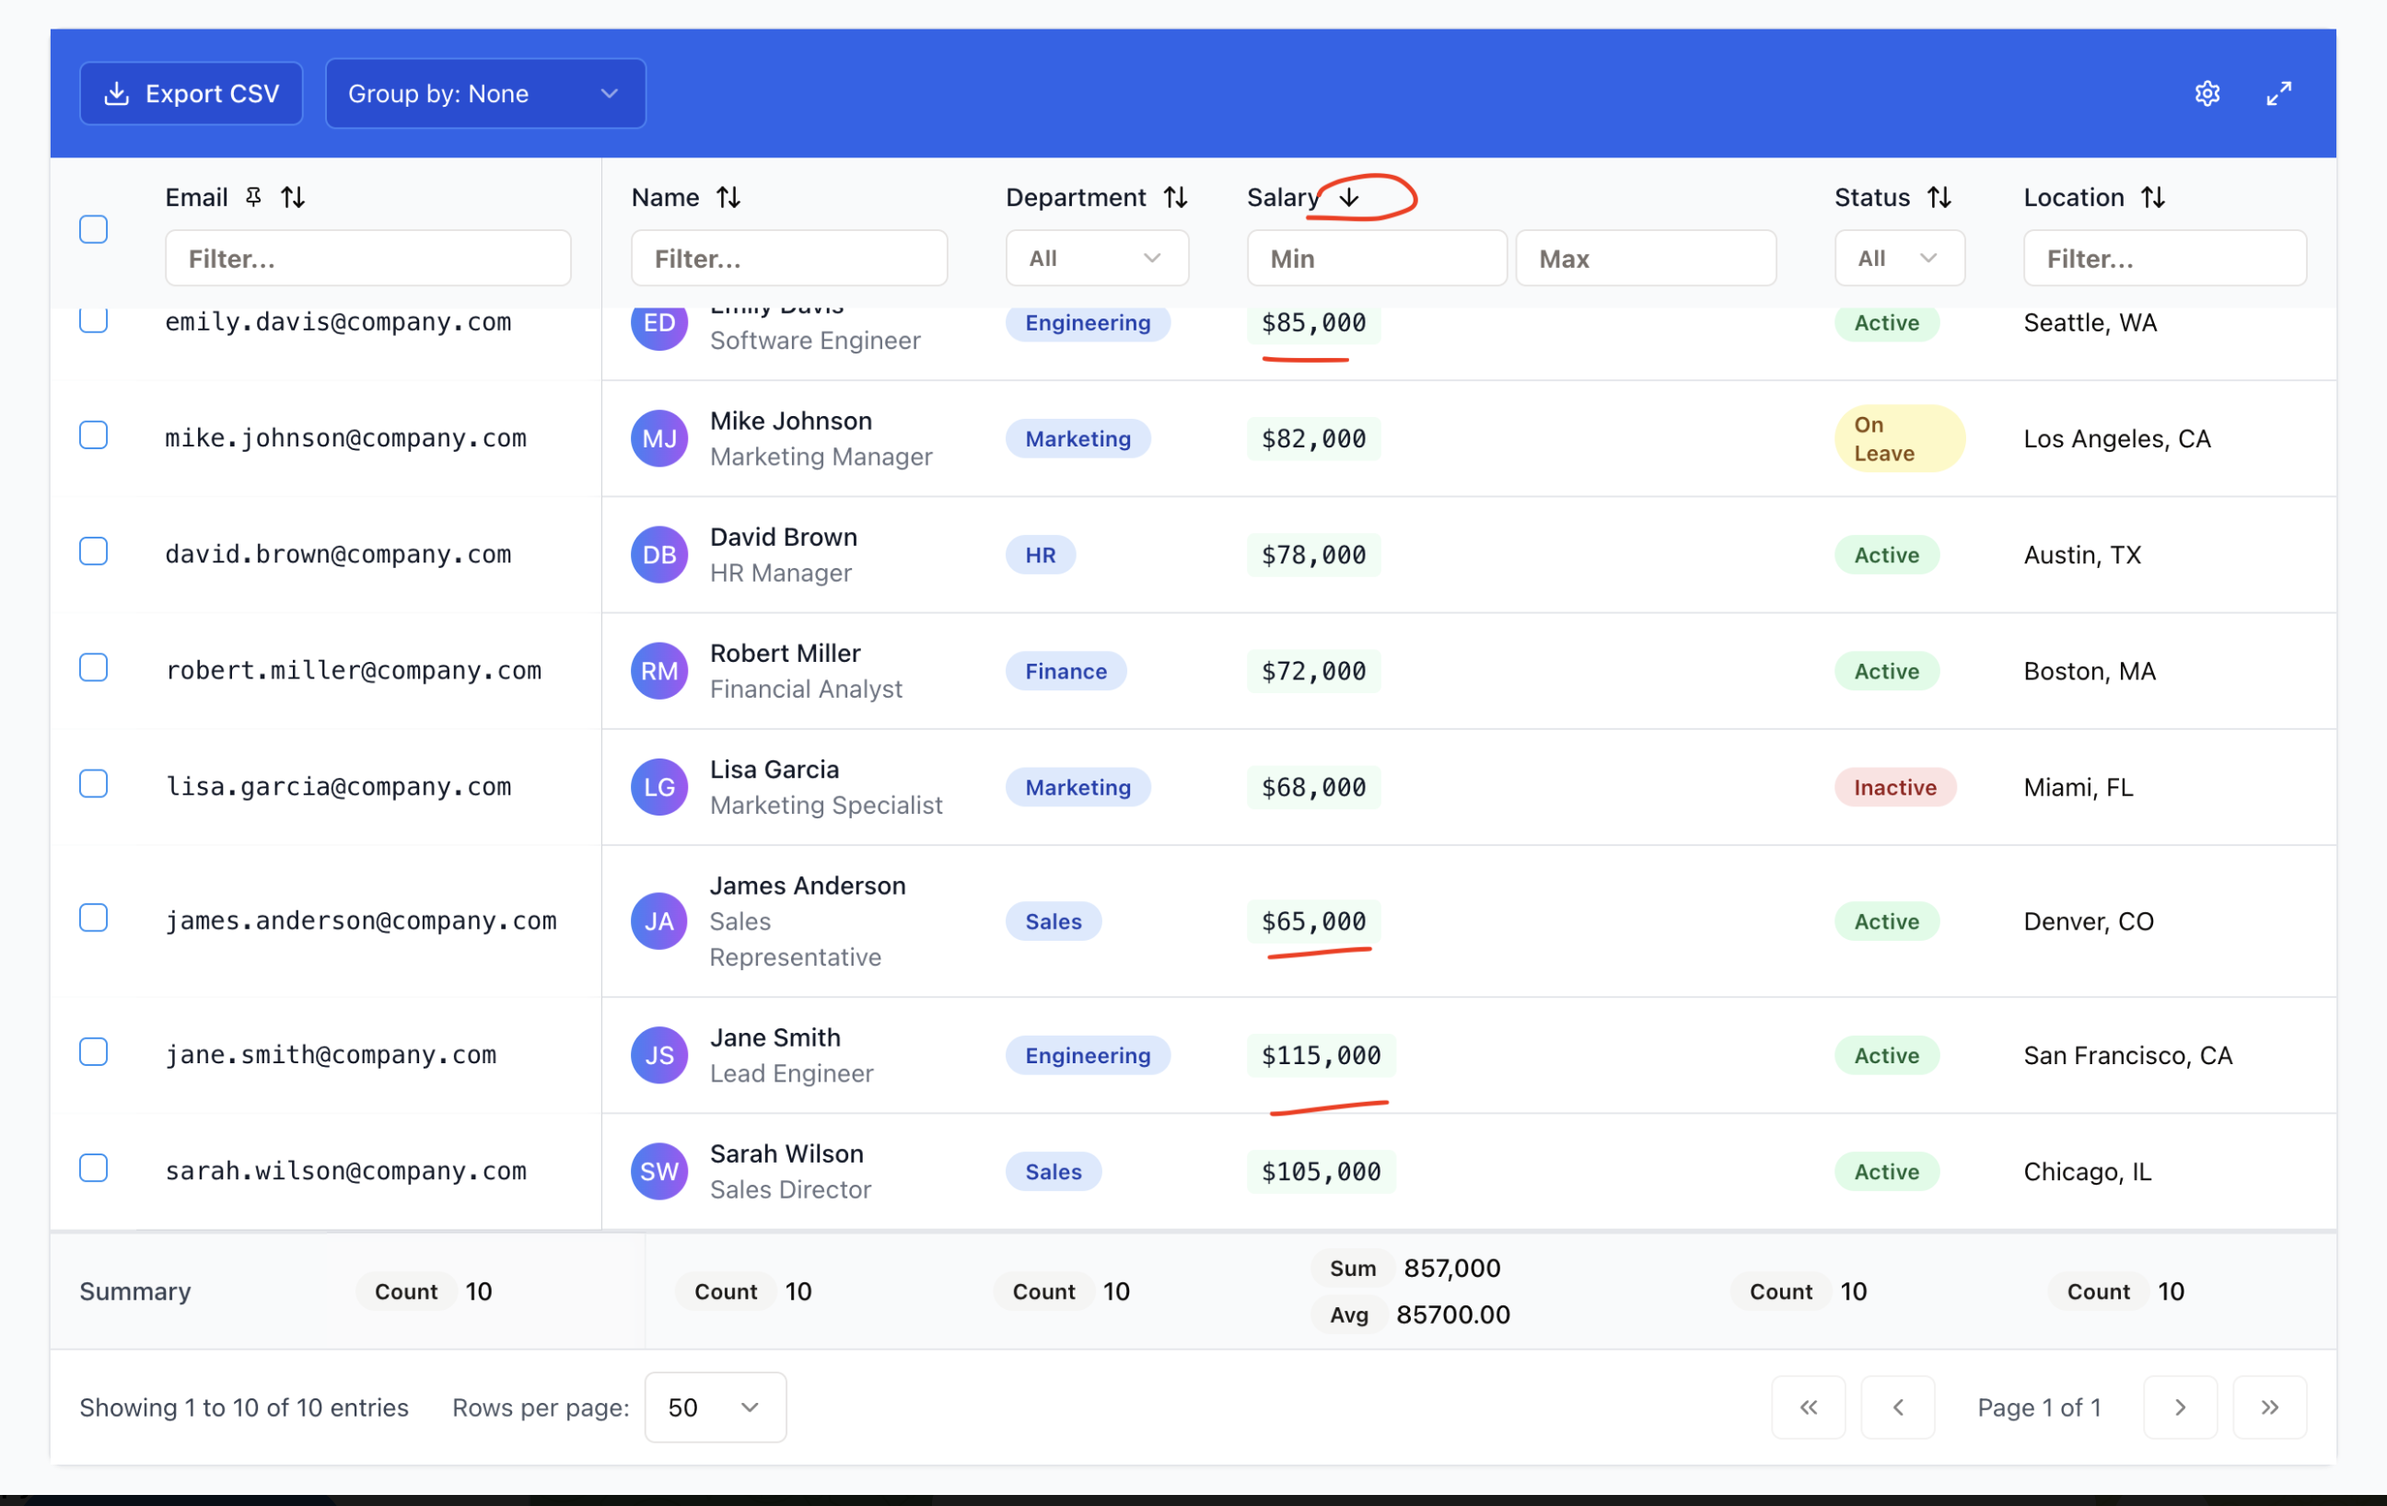
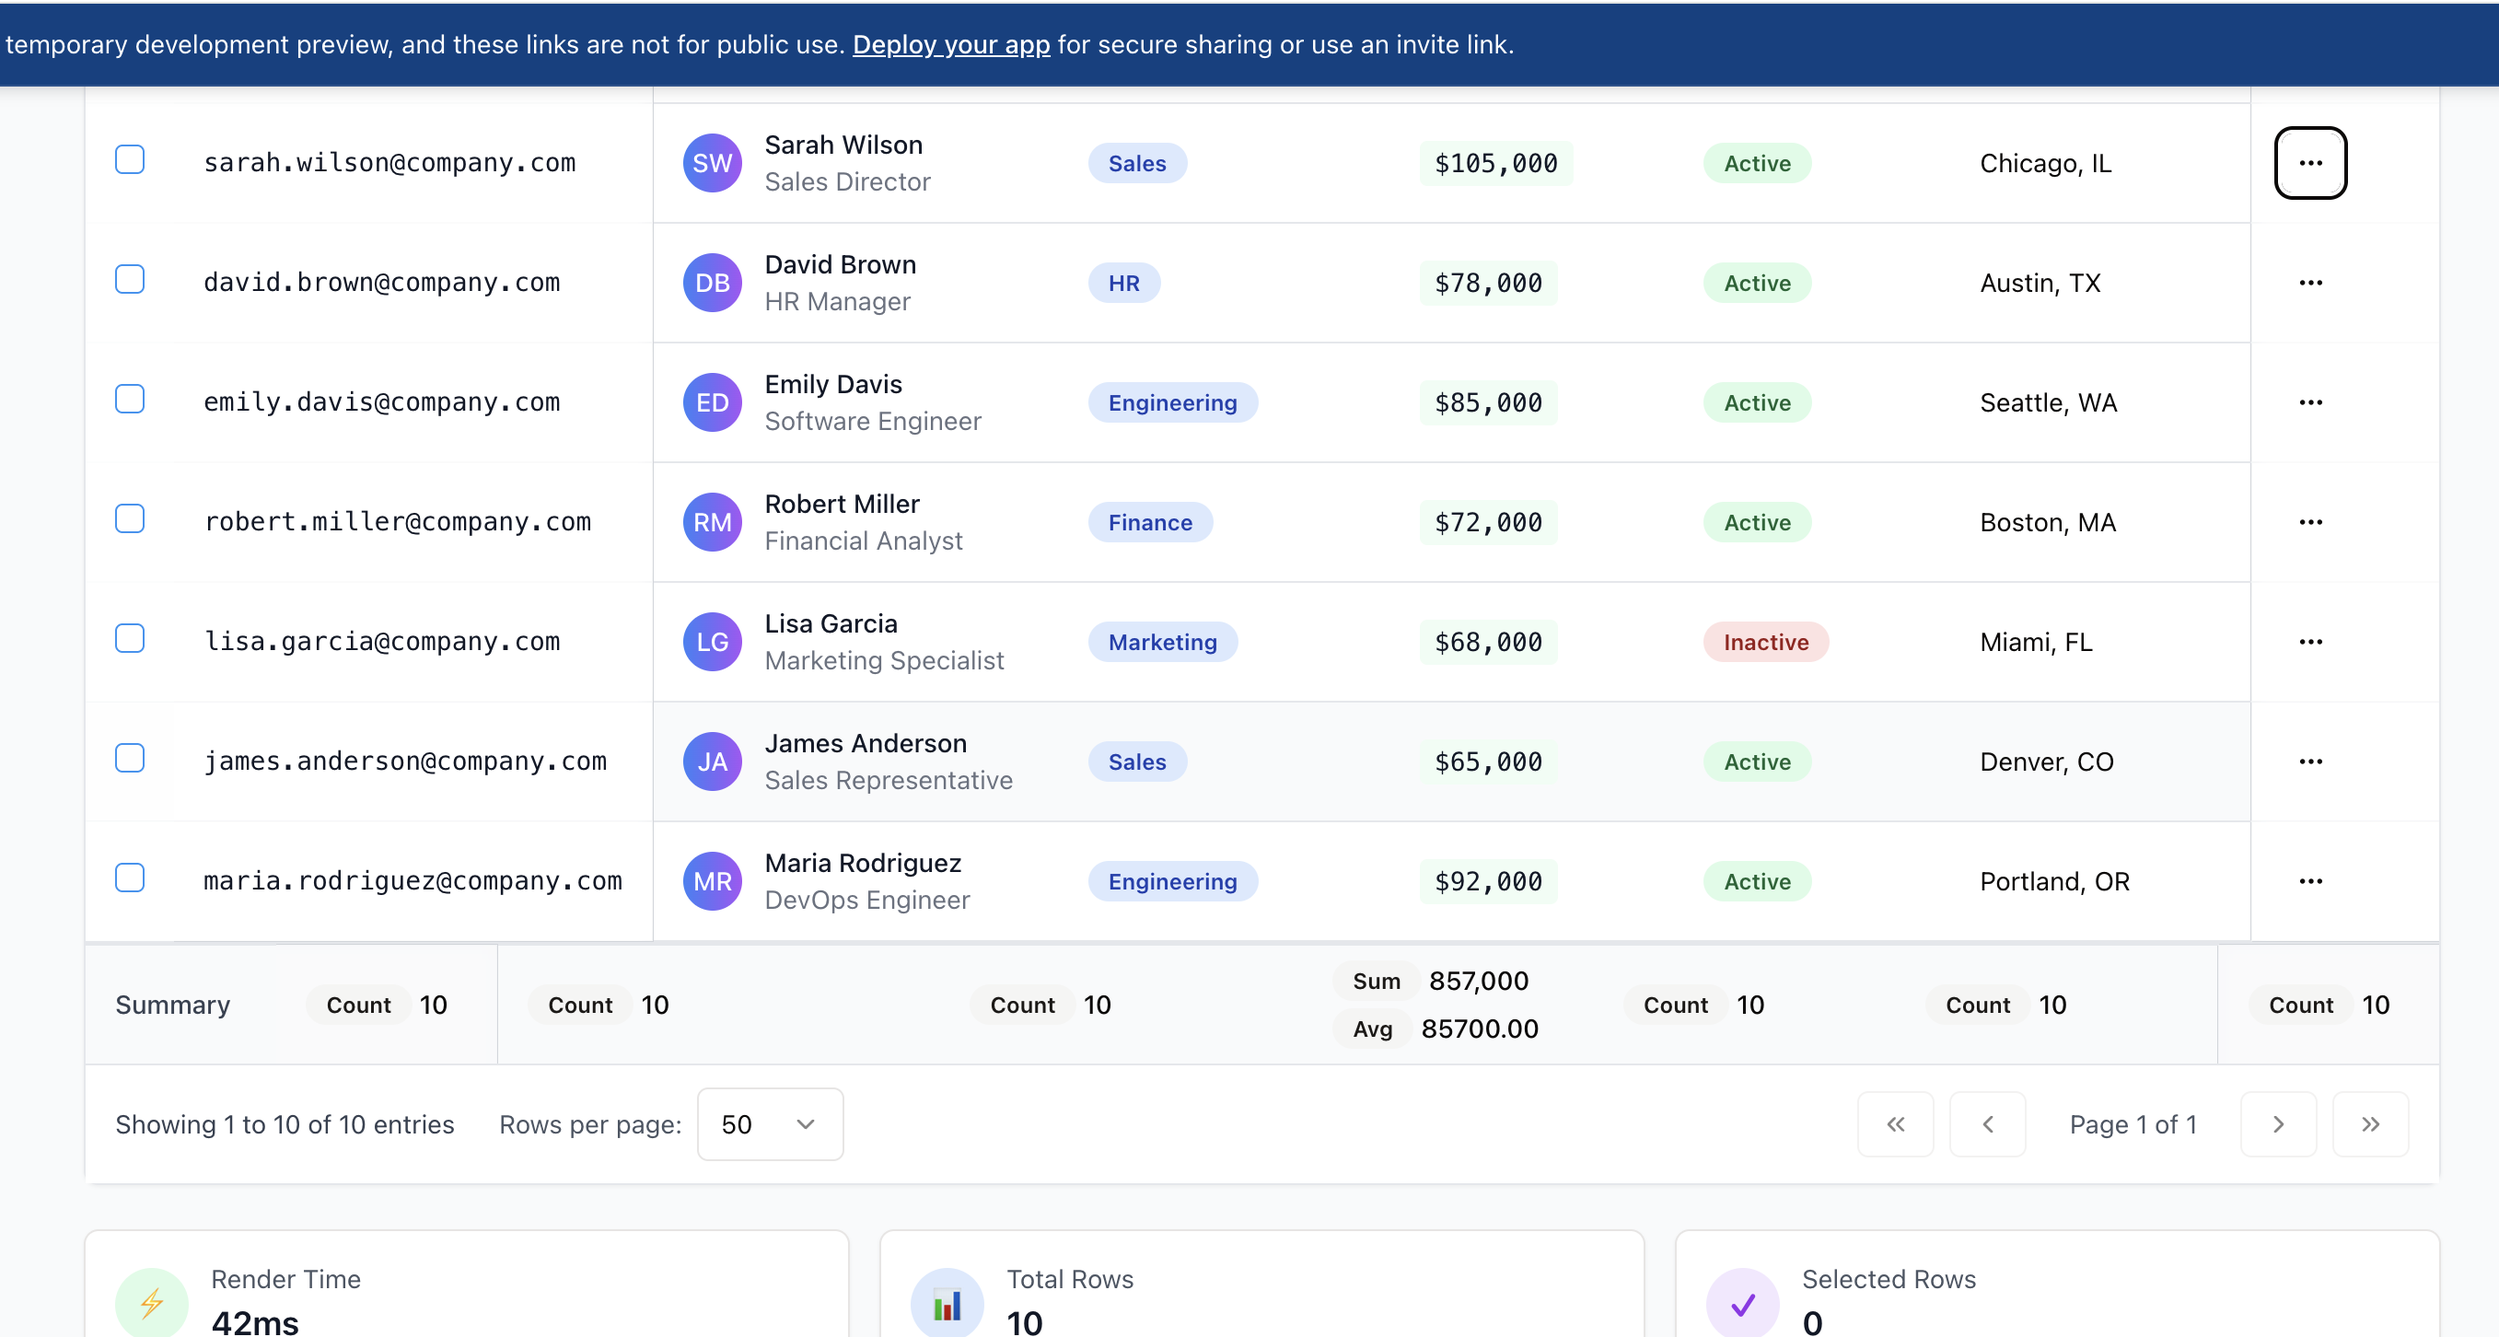
Improve layout and display of grouped data and table summaries
Aligns table footer columns with the grid and updates README screenshot; adjusts DataTableGroupHeader and DataTableStickyFooter components.

Replit-Commit-Author: Agent
Replit-Commit-Session-Id: 0974473c-985e-48a1-a690-1ab60a8a5f88
Replit-Commit-Screenshot-Url: https://storage.googleapis.com/screenshot-production-us-central1/6f595fcc-2213-415a-ae9c-e8cc563c8170/d9ee3f54-642d-4f6b-bfd9-895e3b2f9985.jpg

diff --git a/npm-package/src/components/DataTable/data-table-group-header.tsx b/npm-package/src/components/DataTable/data-table-group-header.tsx
@@ -1,49 +1,81 @@
 import React from 'react';
 import { ChevronDown, ChevronRight } from 'lucide-react';
 import { Button } from '@/components/ui/button';
+import { DataTableColumn } from './types';
 
-interface DataTableGroupHeaderProps {
+interface DataTableGroupHeaderProps<T = any> {
   groupValue: string;
   itemCount: number;
   expanded: boolean;
   summaries?: Map<string, number>;
+  columns: DataTableColumn<T>[];
   onToggle: () => void;
 }
 
-export function DataTableGroupHeader({ 
+export function DataTableGroupHeader<T>({ 
   groupValue, 
   itemCount, 
   expanded, 
   summaries,
+  columns,
   onToggle 
-}: DataTableGroupHeaderProps) {
+}: DataTableGroupHeaderProps<T>) {
+  const visibleColumns = columns.filter(col => !col.hidden);
+  
   return (
-    <td colSpan={100} className="px-4 py-3 bg-gray-100 hover:bg-gray-200 transition-colors">
-      <div className="flex items-center gap-2">
-        <Button
-          variant="ghost"
-          size="sm"
-          className="p-0 h-6 w-6"
-          onClick={onToggle}
-        >
-          {expanded ? (
-            <ChevronDown className="h-4 w-4" />
-          ) : (
-            <ChevronRight className="h-4 w-4" />
-          )}
-        </Button>
-        <span className="font-medium text-gray-900">{groupValue}</span>
-        <span className="text-sm text-gray-500">({itemCount} items)</span>
-        {summaries && summaries.size > 0 && (
-          <div className="flex items-center gap-4 ml-4">
-            {Array.from(summaries.entries()).map(([field, sum]) => (
-              <span key={field} className="text-sm text-blue-600 font-medium">
-                {field}: ${sum.toLocaleString()}
-              </span>
-            ))}
-          </div>
-        )}
-      </div>
-    </td>
+    <>
+      {visibleColumns.map((column, index) => {
+        if (index === 0) {
+          // First column: show the toggle and group info
+          return (
+            <td 
+              key={String(column.field)} 
+              className="px-4 py-3 bg-gray-100 hover:bg-gray-200 transition-colors border-b border-gray-200"
+              style={{
+                minWidth: column.minWidth || '120px',
+              }}
+            >
+              <div className="flex items-center gap-2">
+                <Button
+                  variant="ghost"
+                  size="sm"
+                  onClick={onToggle}
+                  className="h-6 w-6 p-0"
+                >
+                  {expanded ? (
+                    <ChevronDown className="h-4 w-4" />
+                  ) : (
+                    <ChevronRight className="h-4 w-4" />
+                  )}
+                </Button>
+                <span className="font-medium text-gray-900">
+                  {groupValue} ({itemCount} items)
+                </span>
+              </div>
+            </td>
+          );
+        } else {
+          // Other columns: show summary if available
+          const fieldName = String(column.field);
+          const summary = summaries?.get(fieldName);
+          
+          return (
+            <td 
+              key={String(column.field)} 
+              className="px-4 py-3 bg-gray-100 hover:bg-gray-200 transition-colors border-b border-gray-200"
+              style={{
+                minWidth: column.minWidth || '120px',
+              }}
+            >
+              {summary ? (
+                <span className="text-sm text-blue-600 font-medium">
+                  ${summary.toLocaleString()}
+                </span>
+              ) : null}
+            </td>
+          );
+        }
+      })}
+    </>
   );
 }

diff --git a/npm-package/src/components/DataTable/DataTable.tsx b/npm-package/src/components/DataTable/DataTable.tsx
@@ -186,15 +186,14 @@ export function DataTable<T extends Record<string, any>>({
                       if ((row as any).__isGroupHeader) {
                         return (
                           <tr key={`group-${(row as any).__groupKey || (row as any).__groupValue}`}>
-                            <td colSpan={columns.length + (showSelection ? 2 : 1)}>
-                              <DataTableGroupHeader
-                                groupValue={(row as any).__groupValue}
-                                itemCount={(row as any).__itemCount}
-                                expanded={(row as any).__expanded}
-                                summaries={(row as any).__summaries}
-                                onToggle={() => toggleGroup((row as any).__groupKey || (row as any).__groupValue)}
-                              />
-                            </td>
+                            <DataTableGroupHeader
+                              groupValue={(row as any).__groupValue}
+                              itemCount={(row as any).__itemCount}
+                              expanded={(row as any).__expanded}
+                              summaries={(row as any).__summaries}
+                              columns={showSelection ? [{ field: '__select__' as any, header: '' }, ...columns] : columns}
+                              onToggle={() => toggleGroup((row as any).__groupKey || (row as any).__groupValue)}
+                            />
                           </tr>
                         );
                       }
@@ -236,15 +235,14 @@ export function DataTable<T extends Record<string, any>>({
                   if ((row as any).__isGroupHeader) {
                     return (
                       <tr key={`group-${(row as any).__groupKey || (row as any).__groupValue}`}>
-                        <td colSpan={columns.length + (showSelection ? 2 : 1)}>
-                          <DataTableGroupHeader
-                            groupValue={(row as any).__groupValue}
-                            itemCount={(row as any).__itemCount}
-                            expanded={(row as any).__expanded}
-                            summaries={(row as any).__summaries}
-                            onToggle={() => toggleGroup((row as any).__groupKey || (row as any).__groupValue)}
-                          />
-                        </td>
+                        <DataTableGroupHeader
+                          groupValue={(row as any).__groupValue}
+                          itemCount={(row as any).__itemCount}
+                          expanded={(row as any).__expanded}
+                          summaries={(row as any).__summaries}
+                          columns={showSelection ? [{ field: '__select__' as any, header: '' }, ...columns] : columns}
+                          onToggle={() => toggleGroup((row as any).__groupKey || (row as any).__groupValue)}
+                        />
                       </tr>
                     );
                   }

diff --git a/client/src/components/DataTable/data-table-sticky-footer.tsx b/client/src/components/DataTable/data-table-sticky-footer.tsx
@@ -76,16 +76,26 @@ export function DataTableStickyFooter<T extends Record<string, any>>({
   };
 
   return (
-    <div className={cn("sticky bottom-0 z-10 bg-white border-t border-gray-200", className)}>
-      <table className="w-full">
+    <div className={cn("sticky bottom-0 z-10 bg-white border-t border-gray-200 overflow-x-auto", className)}>
+      <table className="min-w-full text-sm border-collapse table-fixed">
         <tfoot>
           <tr className="bg-gray-50">
-            <td className="px-4 py-2 text-sm font-medium text-gray-700 border-t border-gray-200">
-              Summary
-            </td>
-            {pinnedLeftColumns.map(column => renderSummaryCell(column, true))}
-            {unpinnedColumns.map(column => renderSummaryCell(column))}
-            {pinnedRightColumns.map(column => renderSummaryCell(column, true))}
+            {visibleColumns.map((column, index) => {
+              if (index === 0) {
+                return (
+                  <td 
+                    key="summary-label"
+                    className="px-4 py-2 text-sm font-medium text-gray-700 border-t border-gray-200"
+                    style={{
+                      minWidth: column.minWidth || '120px',
+                    }}
+                  >
+                    Summary
+                  </td>
+                );
+              }
+              return renderSummaryCell(column, column.pinned === 'left' || column.pinned === 'right');
+            })}
           </tr>
         </tfoot>
       </table>

diff --git a/npm-package/src/components/DataTable/data-table-sticky-footer.tsx b/npm-package/src/components/DataTable/data-table-sticky-footer.tsx
@@ -76,16 +76,26 @@ export function DataTableStickyFooter<T extends Record<string, any>>({
   };
 
   return (
-    <div className={cn("sticky bottom-0 z-10 bg-white border-t border-gray-200", className)}>
-      <table className="w-full">
+    <div className={cn("sticky bottom-0 z-10 bg-white border-t border-gray-200 overflow-x-auto", className)}>
+      <table className="min-w-full text-sm border-collapse table-fixed">
         <tfoot>
           <tr className="bg-gray-50">
-            <td className="px-4 py-2 text-sm font-medium text-gray-700 border-t border-gray-200">
-              Summary
-            </td>
-            {pinnedLeftColumns.map(column => renderSummaryCell(column, true))}
-            {unpinnedColumns.map(column => renderSummaryCell(column))}
-            {pinnedRightColumns.map(column => renderSummaryCell(column, true))}
+            {visibleColumns.map((column, index) => {
+              if (index === 0) {
+                return (
+                  <td 
+                    key="summary-label"
+                    className="px-4 py-2 text-sm font-medium text-gray-700 border-t border-gray-200"
+                    style={{
+                      minWidth: column.minWidth || '120px',
+                    }}
+                  >
+                    Summary
+                  </td>
+                );
+              }
+              return renderSummaryCell(column, column.pinned === 'left' || column.pinned === 'right');
+            })}
           </tr>
         </tfoot>
       </table>
